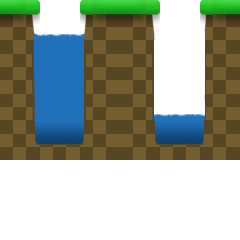
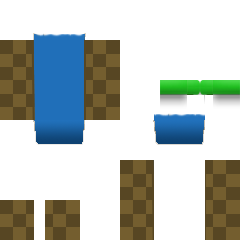
New water, collision box fix

diff --git a/js/main.js b/js/main.js
@@ -9,6 +9,7 @@ var g_resources= [
     //tsx image files
     {name:"land-tiles-simple",type:"tsx",src:"data/land-tiles-simple.tsx"},
     {name:"land-tiles-client",type:"tsx",src:"data/land-tiles-client.tsx"},
+    {name:"land-tiles-simple-water",type:"tsx",src:"data/land-tiles-simple-water.tsx"},
     
     //the levels!
     {name:"level1",type:"tmx",src:"data/level1.tmx"},
@@ -63,7 +64,7 @@ var jsApp	=
         me.input.bindKey(me.input.KEY.LEFT,  "left");
         me.input.bindKey(me.input.KEY.RIGHT, "right");
         me.input.bindKey(me.input.KEY.UP,     "jump", true);
-  //me.debug.renderHitBox = true; //TEMPORARY
+  me.debug.renderHitBox = true; //TEMPORARY
         // start the game 
 		me.state.change(me.state.PLAY);
 	}

diff --git a/js/entities.js b/js/entities.js
@@ -185,7 +185,7 @@ function Predator(image,width){
                 return false;
             }
             
-            var playerRadius = 50;
+            var playerRadius = 30;
             var player = me.game.getEntityByName("mainPlayer")[0];
             // do nothing if not visible
             if (!this.inViewport)
